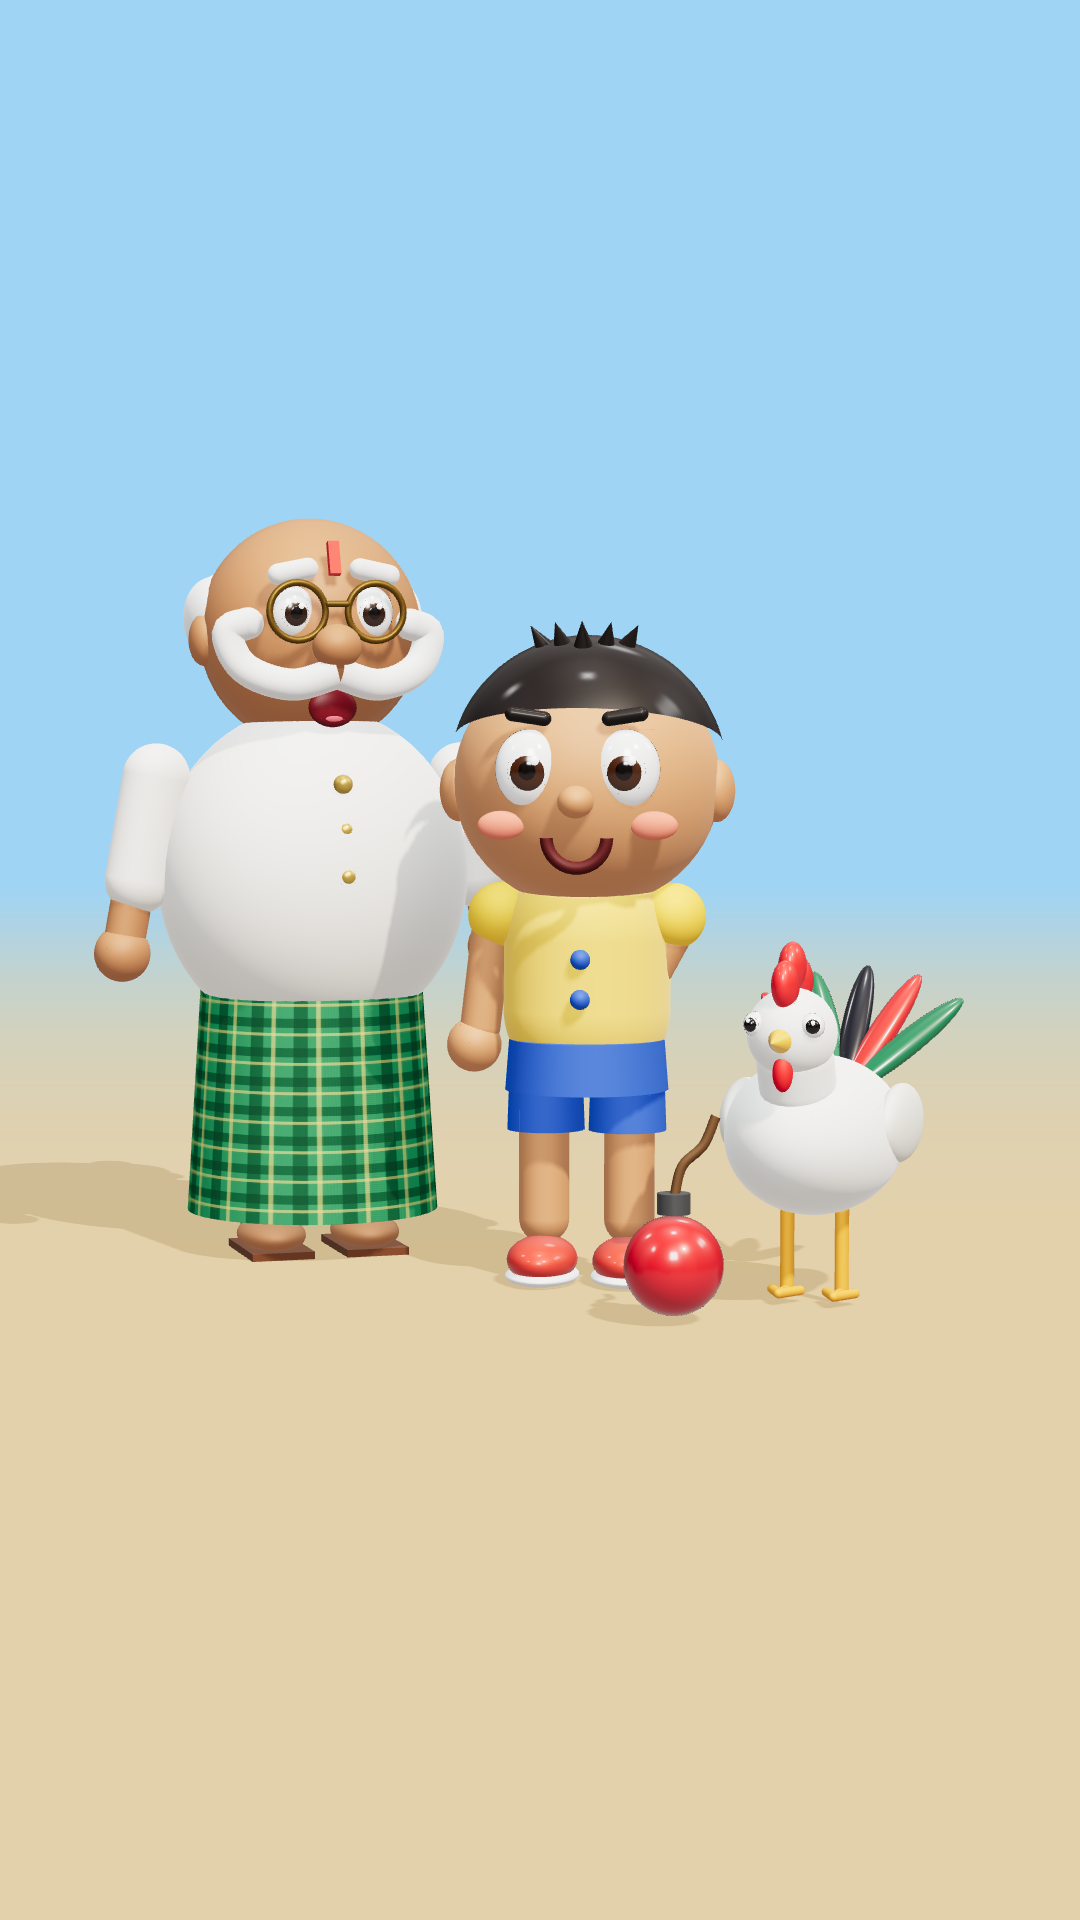
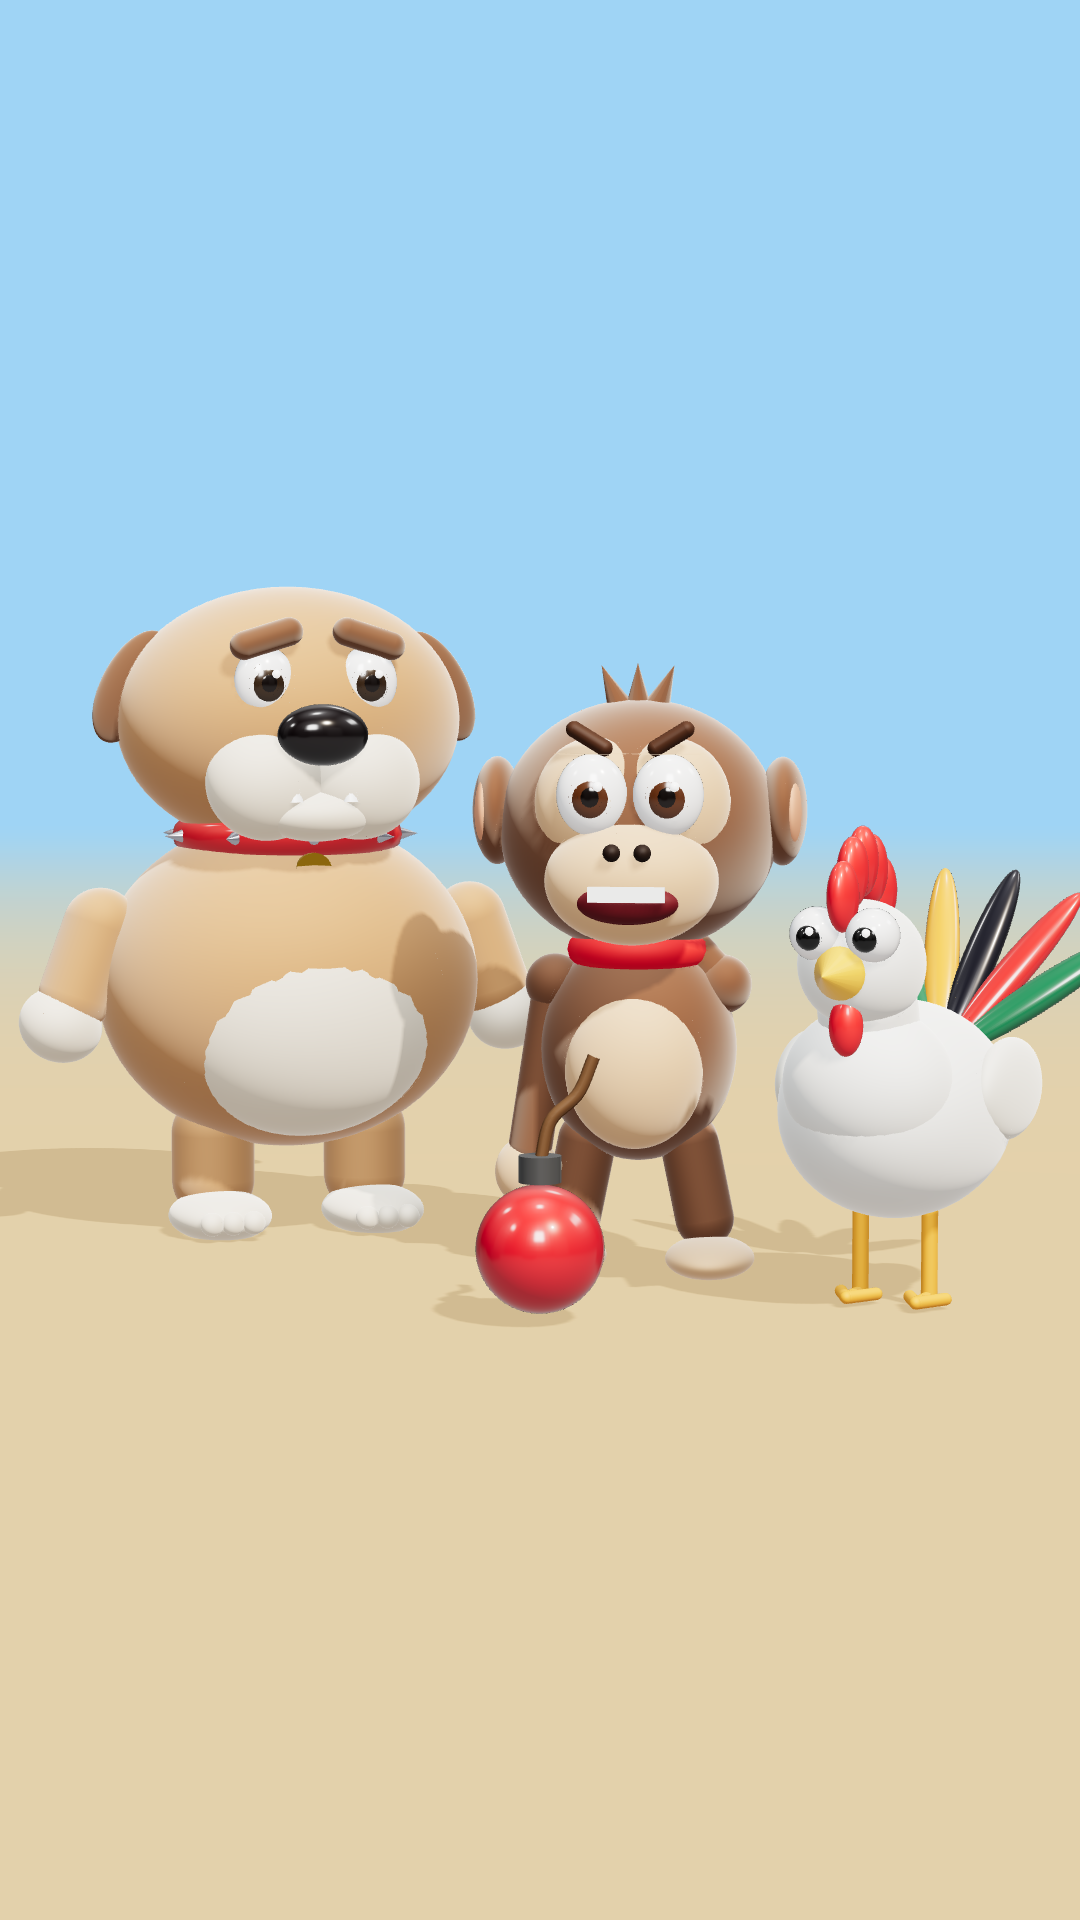
Switch to funny 3D animal cast: monkey, bulldog, rooster
Claude-Session: https://claude.ai/code/session_013hcfZsJr8rXQXWtja5uwEL

Changed region(s): [[0.0, 0.25, 1.0, 0.6875]]

diff --git a/cartoon-studio/3d/animals3d.js b/cartoon-studio/3d/animals3d.js
@@ -1,0 +1,214 @@
+// Naa Idea animal cast (funny comedy 3D): Monkey (troublemaker), Bulldog (lazy grump),
+// Rooster (twist-maker). Same conventions as cast3d.js: root on the ground, facing +Z,
+// rig = named joints for the timeline.
+import * as THREE from 'three';
+import { mat, mesh, group, cartoonEye, smile, openMouth } from './cast3d.js';
+
+const S = (r, w = 48, h = 32) => new THREE.SphereGeometry(r, w, h);
+const CAP = (r, len) => new THREE.CapsuleGeometry(r, len, 12, 24);
+const fur = (c, extra = {}) => mat(c, { roughness: 0.9, sheen: 1, sheenRoughness: 0.5, sheenColor: 0xffffff, ...extra });
+
+function tube(points, r, material, parent) {
+  const curve = new THREE.CatmullRomCurve3(points.map(p => new THREE.Vector3(...p)));
+  return mesh(new THREE.TubeGeometry(curve, 64, r, 16, false), material, parent);
+}
+
+// ------------------------------------------------------------------ Monkey
+export function makeMonkey() {
+  const brown = fur(0x7a4a26), tan = fur(0xe8b98a);
+  const root = new THREE.Group();
+  const rig = {};
+  const body = rig.body = group(root, [0, 0, 0]);
+
+  // short bandy legs + big feet
+  rig.legs = [-1, 1].map(side => {
+    const hip = group(body, [side * 0.1, 0.3, 0]);
+    mesh(CAP(0.06, 0.16), brown, hip, [side * 0.02, -0.12, 0], [1, 1, 1], [0, 0, side * 0.2]);
+    mesh(S(0.09), tan, hip, [side * 0.05, -0.27, 0.06], [1, 0.45, 1.6]);
+    return hip;
+  });
+  // pear body + belly
+  const torso = rig.torso = group(body, [0, 0.32, 0]);
+  mesh(S(0.2), brown, torso, [0, 0.13, 0], [1, 1.15, 0.9]);
+  mesh(S(0.15), tan, torso, [0, 0.1, 0.1], [0.95, 1.1, 0.75]);
+  // red bandana
+  mesh(new THREE.TorusGeometry(0.11, 0.035, 12, 32), mat(0xe0262c, { roughness: 0.7 }), torso, [0, 0.33, 0], [1, 1, 1], [Math.PI / 2, 0, 0]);
+  mesh(new THREE.ConeGeometry(0.07, 0.12, 3), mat(0xe0262c, { roughness: 0.7 }), torso, [0, 0.27, 0.1], [1, 1, 0.4], [Math.PI, 0, 0]);
+  // looong arms
+  rig.arms = [-1, 1].map(side => {
+    const sh = group(torso, [side * 0.17, 0.26, 0]);
+    mesh(S(0.06), brown, sh);
+    mesh(CAP(0.045, 0.3), brown, sh, [0, -0.19, 0]);
+    const hand = rig[side < 0 ? 'handL' : 'handR'] = group(sh, [0, -0.39, 0]);
+    mesh(S(0.065), tan, hand, [0, 0, 0], [1, 1.1, 0.8]);
+    mesh(CAP(0.02, 0.04), tan, hand, [side * -0.05, 0.01, 0.03], [1, 1, 1], [0, 0, side * 0.8]);
+    sh.rotation.z = side * 0.15;
+    return sh;
+  });
+  // curly tail
+  const tailPts = [];
+  for (let i = 0; i <= 24; i++) {
+    const k = i / 24;
+    const a = k * Math.PI * 2.6;
+    const rad = 0.18 * (1 - k * 0.6);
+    tailPts.push([Math.sin(a) * rad * 0.4, 0.05 + k * 0.5 + Math.cos(a) * rad * 0.3 - 0.1, -0.16 - k * 0.15 - Math.sin(a) * rad * 0.2]);
+  }
+  rig.tail = group(torso, [0, 0, 0]);
+  tube(tailPts, 0.025, brown, rig.tail);
+
+  // head
+  const head = rig.head = group(torso, [0, 0.58, 0]);
+  mesh(S(0.27), brown, head, [0, 0, 0], [1.05, 0.95, 0.95]);
+  // tuft
+  for (let i = 0; i < 3; i++) mesh(new THREE.ConeGeometry(0.035, 0.12, 12), brown, head, [(i - 1) * 0.05, 0.27, 0.02], [1, 1, 1], [0.2, 0, (1 - i) * 0.4]);
+  // big round ears
+  for (const side of [-1, 1]) {
+    mesh(S(0.11), brown, head, [side * 0.29, 0.03, -0.02], [0.45, 1, 1]);
+    mesh(S(0.075), mat(0xd99a7a, { roughness: 0.8 }), head, [side * 0.31, 0.03, 0.01], [0.3, 1, 1]);
+  }
+  // heart-shaped face mask + big muzzle
+  mesh(S(0.12), tan, head, [-0.075, 0.05, 0.17], [1, 1.1, 0.7]);
+  mesh(S(0.12), tan, head, [0.075, 0.05, 0.17], [1, 1.1, 0.7]);
+  const muzzle = rig.muzzle = group(head, [0, -0.1, 0.2]);
+  mesh(S(0.15), tan, muzzle, [0, 0, 0], [1.15, 0.85, 0.8]);
+  mesh(S(0.017), mat(0x2a1a12), muzzle, [-0.03, 0.06, 0.12]);
+  mesh(S(0.017), mat(0x2a1a12), muzzle, [0.03, 0.06, 0.12]);
+  rig.eyes = [-1, 1].map(side => cartoonEye(head, [side * 0.075, 0.07, 0.24], 0.07, 0x5a3418, 0xe8b98a));
+  rig.brows = [-1, 1].map(side => {
+    const b = group(head, [side * 0.08, 0.18, 0.24]);
+    mesh(CAP(0.016, 0.07), mat(0x4a2a14), b, [0, 0, 0], [1, 1, 1], [0, 0, Math.PI / 2 + side * 0.25]);
+    return b;
+  });
+  // mouth variants: smile, cheeky toothy grin, open "O"
+  rig.smile = smile(muzzle, [0, -0.015, 0.115], 0.07, 0.013);
+  rig.grin = group(muzzle, [0, -0.04, 0.1]);
+  mesh(S(0.09), mat(0x6a1a20), rig.grin, [0, 0, 0], [1.1, 0.45, 0.4]);
+  mesh(new THREE.BoxGeometry(0.15, 0.03, 0.02), mat(0xffffff, { roughness: 0.2 }), rig.grin, [0, 0.02, 0.035]);
+  rig.grin.visible = false;
+  rig.mouthOpen = openMouth(muzzle, [0, -0.04, 0.11], 0.055);
+  return { root, rig };
+}
+
+// ------------------------------------------------------------------ Bulldog
+export function makeBulldog() {
+  const coat = fur(0xc9905a), cream = fur(0xf3e6d0), dark = fur(0x7a4e2c);
+  const root = new THREE.Group();
+  const rig = {};
+  const body = rig.body = group(root, [0, 0, 0]);
+
+  // stubby legs
+  rig.legs = [-1, 1].map(side => {
+    const hip = group(body, [side * 0.17, 0.26, 0]);
+    mesh(CAP(0.09, 0.1), coat, hip, [0, -0.1, 0]);
+    mesh(S(0.11), cream, hip, [0, -0.22, 0.07], [1, 0.5, 1.3]);
+    for (const t of [-1, 0, 1]) mesh(S(0.025), cream, hip, [t * 0.045, -0.22, 0.2]);
+    return hip;
+  });
+  // barrel body + belly
+  const torso = rig.torso = group(body, [0, 0.28, 0]);
+  rig.belly = mesh(S(0.38), coat, torso, [0, 0.26, 0], [1.1, 0.95, 0.95]);
+  mesh(S(0.3), cream, torso, [0, 0.22, 0.13], [1.05, 0.95, 0.8]);
+  mesh(S(0.05), coat, torso, [0, 0.12, -0.38]);   // stub tail
+  // short thick arms
+  rig.arms = [-1, 1].map(side => {
+    const sh = group(torso, [side * 0.38, 0.42, 0]);
+    mesh(CAP(0.08, 0.16), coat, sh, [side * 0.02, -0.12, 0]);
+    const hand = rig[side < 0 ? 'handL' : 'handR'] = group(sh, [side * 0.03, -0.27, 0]);
+    mesh(S(0.09), cream, hand, [0, 0, 0], [1, 0.9, 1]);
+    sh.rotation.z = side * 0.35;
+    return sh;
+  });
+  // spiked collar
+  const collar = group(torso, [0, 0.58, 0]);
+  mesh(new THREE.TorusGeometry(0.21, 0.04, 12, 40), mat(0xd42a2a, { roughness: 0.4, clearcoat: 0.6 }), collar, [0, 0, 0], [1, 1, 1], [Math.PI / 2, 0, 0]);
+  for (let i = 0; i < 9; i++) {
+    const a = (i / 9) * Math.PI * 2;
+    const spike = group(collar, [0, 0, 0]);
+    spike.rotation.y = a;
+    mesh(new THREE.ConeGeometry(0.025, 0.07, 12), mat(0xd8d8e0, { metalness: 0.9, roughness: 0.2 }), spike,
+      [0, 0, 0.25], [1, 1, 1], [Math.PI / 2, 0, 0]);
+  }
+  // tag
+  mesh(new THREE.CylinderGeometry(0.04, 0.04, 0.012, 24), mat(0xf2c230, { metalness: 0.8, roughness: 0.25 }), collar, [0, -0.07, 0.24], [1, 1, 1], [Math.PI / 2, 0, 0]);
+
+  // big wide head
+  const head = rig.head = group(torso, [0, 0.83, 0.02]);
+  mesh(S(0.3), coat, head, [0, 0, 0], [1.25, 0.95, 1]);
+  // droopy ears
+  rig.ears = [-1, 1].map(side => {
+    const e = group(head, [side * 0.3, 0.17, -0.02]);
+    mesh(S(0.12), dark, e, [side * 0.04, -0.1, 0], [0.55, 1.1, 0.25], [0, 0, side * 0.5]);
+    return e;
+  });
+  // grumpy heavy-lidded eyes
+  rig.eyes = [-1, 1].map(side => cartoonEye(head, [side * 0.11, 0.08, 0.25], 0.065, 0x3a2a1a, 0xc9905a));
+  rig.brows = [-1, 1].map(side => {
+    const b = group(head, [side * 0.11, 0.17, 0.27]);
+    mesh(CAP(0.03, 0.1), dark, b, [0, 0, 0], [1, 1, 1], [0, 0, Math.PI / 2 - side * 0.3]);
+    return b;
+  });
+  // jowls + muzzle + big nose
+  const muzzle = rig.muzzle = group(head, [0, -0.1, 0.2]);
+  rig.jowls = [-1, 1].map(side => mesh(S(0.13), cream, muzzle, [side * 0.1, -0.03, 0.02], [1, 0.95, 0.85]));
+  mesh(S(0.08), mat(0x1a1416, { roughness: 0.15, clearcoat: 1 }), muzzle, [0, 0.07, 0.11], [1.2, 0.8, 0.8]);
+  // underbite: lower jaw with two little fangs poking up
+  rig.jaw = group(muzzle, [0, -0.1, 0.05]);
+  mesh(S(0.11), cream, rig.jaw, [0, 0, 0], [1.1, 0.5, 0.8]);
+  for (const side of [-1, 1]) mesh(new THREE.ConeGeometry(0.018, 0.06, 12), mat(0xffffff, { roughness: 0.2 }), rig.jaw, [side * 0.06, 0.06, 0.06]);
+  rig.mouthOpen = openMouth(muzzle, [0, -0.08, 0.1], 0.08);
+  return { root, rig };
+}
+
+// ------------------------------------------------------------------ Rooster
+export function makeRooster() {
+  const white = fur(0xfbfaf4), orange = mat(0xf2a020, { roughness: 0.5 });
+  const red = mat(0xe0242c, { roughness: 0.35, clearcoat: 0.7 });
+  const root = new THREE.Group();
+  const rig = {};
+  const body = rig.body = group(root, [0, 0, 0]);
+
+  // skinny legs (funny against the puffed chest)
+  rig.legs = [-1, 1].map(side => {
+    const hip = group(body, [side * 0.07, 0.24, 0]);
+    mesh(new THREE.CylinderGeometry(0.016, 0.016, 0.22, 12), orange, hip, [0, -0.11, 0]);
+    for (const a of [-0.5, 0, 0.5]) mesh(CAP(0.012, 0.07), orange, hip, [Math.sin(a) * 0.04, -0.22, 0.04], [1, 1, 1], [Math.PI / 2, 0, a]);
+    return hip;
+  });
+  const torso = rig.torso = group(body, [0, 0.38, 0]);
+  mesh(S(0.22), white, torso, [0, 0, 0], [1, 0.95, 1.2]);
+  mesh(S(0.15), white, torso, [0, 0.06, 0.15], [1.1, 1, 0.9]);  // puffed chest
+  rig.wings = [-1, 1].map(side => {
+    const w = group(torso, [side * 0.2, 0.04, -0.03]);
+    mesh(S(0.13), fur(0xefeadc), w, [0, 0, -0.04], [0.35, 0.75, 1.2]);
+    return w;
+  });
+  rig.tail = group(torso, [0, 0.08, -0.22]);
+  [0x1f6f48, 0xc8282c, 0x1c1c26, 0xf2a020, 0x1f6f48, 0xc8282c].forEach((col, i) => {
+    const f = group(rig.tail, [0, 0, 0]);
+    f.rotation.set(-0.6, 0, -0.85 + i * 0.34);
+    mesh(S(0.08), mat(col, { roughness: 0.25, clearcoat: 1 }), f, [0, 0.24, -0.02], [0.45, 2.6, 0.3]);
+  });
+  rig.neck = group(torso, [0, 0.14, 0.15]);
+  mesh(CAP(0.095, 0.05), white, rig.neck, [0, 0.04, 0], [1, 1, 1], [0.3, 0, 0]);
+  const head = rig.head = group(rig.neck, [0, 0.15, 0.04]);
+  mesh(S(0.12), white, head);
+  // huge crown comb
+  for (let i = 0; i < 5; i++) mesh(S(0.055), red, head, [0, 0.13 + Math.sin(i / 4 * Math.PI) * 0.06, -0.1 + i * 0.05], [0.5, 1.2, 0.8]);
+  rig.beak = group(head, [0, -0.01, 0.12]);
+  mesh(new THREE.ConeGeometry(0.05, 0.13, 24), mat(0xffbe2e, { roughness: 0.3, clearcoat: 0.6 }), rig.beak, [0, 0, 0.04], [1, 0.7, 1], [Math.PI / 2, 0, 0]);
+  mesh(S(0.04), red, head, [0, -0.11, 0.08], [0.8, 1.4, 0.7]);
+  // big googly eyes sitting on top of the head
+  rig.eyes = [-1, 1].map(side => {
+    const e = group(head, [side * 0.055, 0.06, 0.09]);
+    mesh(S(0.05), mat(0xffffff, { roughness: 0.1, clearcoat: 1 }), e);
+    const look = group(e, [0, 0, 0]);
+    mesh(S(0.024), mat(0x111111, { roughness: 0.1, clearcoat: 1 }), look, [0, -0.005, 0.038]);
+    mesh(S(0.008), mat(0xffffff, { emissive: 0xffffff, emissiveIntensity: 0.6 }), look, [0.008, 0.008, 0.058]);
+    return { eye: e, look };
+  });
+  rig.shades = group(head, [0, 0.06, 0.13]);
+  for (const side of [-1, 1]) mesh(new THREE.BoxGeometry(0.09, 0.05, 0.02), mat(0x111111, { roughness: 0.05, clearcoat: 1 }), rig.shades, [side * 0.055, 0, 0]);
+  mesh(new THREE.BoxGeometry(0.22, 0.012, 0.012), mat(0x111111), rig.shades, [0, 0.018, 0]);
+  rig.shades.visible = false;
+  return { root, rig };
+}

diff --git a/cartoon-studio/3d/lookdev.html b/cartoon-studio/3d/lookdev.html
@@ -3,7 +3,8 @@
 <body><script type="module">
 import * as THREE from 'three';
 import { RoomEnvironment } from 'three/addons/environments/RoomEnvironment.js';
-import { makeBujji, makePeddayya, makeKodi, makeBomb } from './cast3d.js';
+import { makeBomb } from './cast3d.js';
+import { makeMonkey, makeBulldog, makeRooster } from './animals3d.js';
 const W=1080,H=1920;
 const r=new THREE.WebGLRenderer({antialias:true,preserveDrawingBuffer:true});
 r.setSize(W,H); r.shadowMap.enabled=true; r.shadowMap.type=THREE.PCFSoftShadowMap;
@@ -15,11 +16,11 @@ const sun=new THREE.DirectionalLight(0xfff1dd,2.6); sun.position.set(3,6,5); sun
 sun.shadow.mapSize.set(2048,2048); sun.shadow.radius=6; Object.assign(sun.shadow.camera,{left:-4,right:4,top:4,bottom:-4}); s.add(sun);
 const ground=new THREE.Mesh(new THREE.CircleGeometry(30,64),new THREE.MeshStandardMaterial({color:0xc9a36f,roughness:1}));
 ground.rotation.x=-Math.PI/2; ground.receiveShadow=true; s.add(ground);
-const P=makePeddayya(); P.root.position.set(-0.62,0,-0.2); P.root.rotation.y=0.3; s.add(P.root);
-const B=makeBujji(); B.root.position.set(0.12,0,0.35); B.root.rotation.y=-0.1; s.add(B.root);
-const K=makeKodi(); K.root.position.set(0.68,0,0.7); K.root.rotation.y=-0.35; s.add(K.root);
-const bomb=makeBomb(); bomb.root.position.set(0.32,0,1.0); s.add(bomb.root);
-B.rig.arms[1].rotation.z=-0.5; P.rig.mouthOpen.visible=true; P.rig.smile.visible=false;
-const cam=new THREE.PerspectiveCamera(30,W/H,0.1,100); cam.position.set(0,1.5,9.5); cam.lookAt(0,0.8,0);
+const P=makeBulldog(); P.root.position.set(-0.55,0,-0.2); P.root.rotation.y=0.3; s.add(P.root);
+const B=makeMonkey(); B.root.position.set(0.2,0,0.35); B.root.rotation.y=-0.1; s.add(B.root);
+const K=makeRooster(); K.root.position.set(0.68,0,0.8); K.root.rotation.y=-0.45; s.add(K.root);
+const bomb=makeBomb(); bomb.root.position.set(0.0,0,1.0); s.add(bomb.root);
+B.rig.smile.visible=false; B.rig.grin.visible=true; B.rig.arms[1].rotation.z=-2.4; B.rig.brows.forEach((b,i)=>b.rotation.z=(i?-1:1)*-0.3);
+const cam=new THREE.PerspectiveCamera(30,W/H,0.1,100); cam.position.set(0,1.2,7.6); cam.lookAt(0,0.6,0);
 r.render(s,cam); window.done=true;
 </script></body></html>

diff --git a/cartoon-studio/3d/cast3d.js b/cartoon-studio/3d/cast3d.js
@@ -38,7 +38,7 @@ const PUPIL = () => mat(0x1a1210, { roughness: 0.1, clearcoat: 1, sheen: 0 });
 const SHINE = () => mat(0xffffff, { roughness: 0.0, emissive: 0xffffff, emissiveIntensity: 0.6 });
 
 // Cartoon eye with iris, pupil and highlight. Returns { eye, pupilGroup, lid } for blinks / looks.
-function cartoonEye(parent, pos, r, irisColor, skin) {
+export function cartoonEye(parent, pos, r, irisColor, skin) {
   const eye = group(parent, pos);
   mesh(S(r), EYE_WHITE(), eye, [0, 0, 0], [1, 1.15, 0.7]);
   const look = group(eye, [0, 0, 0]);
@@ -54,13 +54,13 @@ function cartoonEye(parent, pos, r, irisColor, skin) {
   return { eye, look, lid };
 }
 
-function smile(parent, pos, r, tube, color = 0x5a1a1a) {
+export function smile(parent, pos, r, tube, color = 0x5a1a1a) {
   const g = group(parent, pos);
   const m = mesh(new THREE.TorusGeometry(r, tube, 12, 32, Math.PI), mat(color), g, [0, 0, 0], [1, 1, 1], [0, 0, Math.PI]);
   return g;
 }
 
-function openMouth(parent, pos, r) {
+export function openMouth(parent, pos, r) {
   const g = group(parent, pos);
   mesh(S(r), mat(0x7a1c24, { roughness: 0.4 }), g, [0, 0, 0], [1, 0.8, 0.35]);
   mesh(S(r * 0.55), mat(0xe86a7a), g, [0, -r * 0.35, r * 0.15], [1, 0.5, 0.3]);
